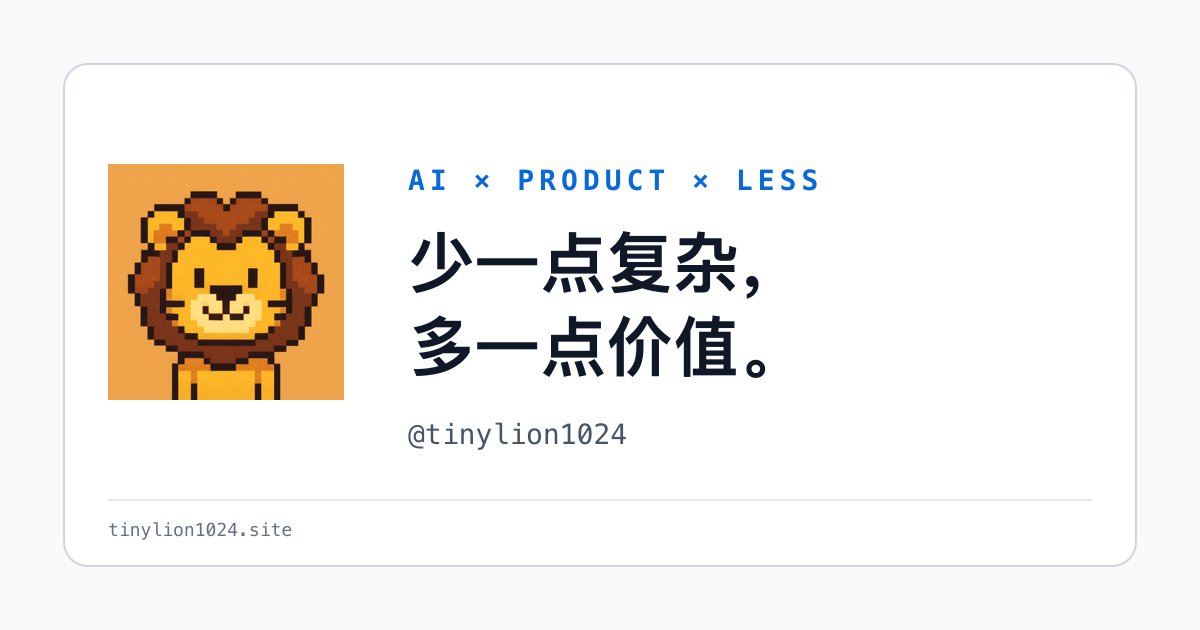
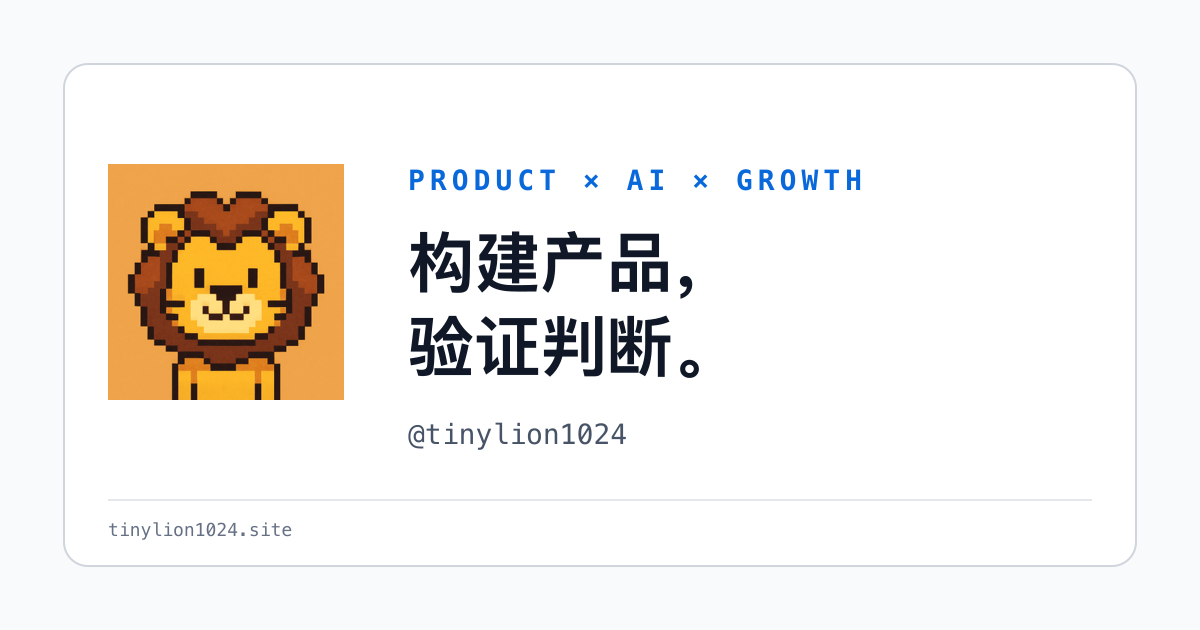
Let the design express restraint

Changed region(s): [[0.3392, 0.3619, 0.6475, 0.6032], [0.3392, 0.2714, 0.555, 0.3016], [0.6167, 0.2714, 0.74, 0.3016]]

diff --git a/src/data/posts.en.ts b/src/data/posts.en.ts
@@ -46,8 +46,8 @@ export const postsEn: Post[] = [
     topic: "AI Building",
     featured: true,
     startHere: true,
-    series: "Minimal AI Workflows",
-    seriesSlug: "minimal-ai-workflows",
+    series: "AI Delivery Workflows",
+    seriesSlug: "ai-delivery-workflows",
     visuals: [{ src: "/articles/selective-powers-workflow.png", alt: "A contrast between a dense always-on workflow and a modular risk-based workflow", afterParagraph: 5, caption: "The goal is not less process. It is process whose weight matches the risk." }],
     body: [
       "I recently removed Superpowers from my default workflow. Not because it is bad—quite the opposite. It made a powerful point early in the AI coding era: agents are capable, but they are also impulsive. Without guardrails, they start before understanding the task and declare success before running anything.",
@@ -71,8 +71,8 @@ export const postsEn: Post[] = [
     topic: "AI Building",
     featured: true,
     startHere: true,
-    series: "Minimal AI Workflows",
-    seriesSlug: "minimal-ai-workflows",
+    series: "AI Delivery Workflows",
+    seriesSlug: "ai-delivery-workflows",
     visuals: [
       { src: "/articles/ai-coding-blast-radius.png", alt: "A comparison between small local changes and large cross-module changes", afterParagraph: 3, caption: "The clearer the blast radius, the easier it is to choose a safe execution mode." },
       { src: "/articles/ai-coding-context-interface.png", alt: "Documentation, source code, and verification acting as an interface for an agent", afterParagraph: 5, caption: "Project documentation is a reusable context interface, not an afterthought." },
@@ -99,8 +99,8 @@ export const postsEn: Post[] = [
     readTime: "7 min",
     topic: "AI Building",
     featured: true,
-    series: "Minimal AI Workflows",
-    seriesSlug: "minimal-ai-workflows",
+    series: "AI Delivery Workflows",
+    seriesSlug: "ai-delivery-workflows",
     sources: [
       { label: "tmux Getting Started: sessions, windows, panes, detach and reattach", href: "https://github.com/tmux/tmux/wiki/Getting-Started" },
       { label: "Zellij documentation: layouts", href: "https://zellij.dev/documentation/layouts.html" },
@@ -131,8 +131,8 @@ export const postsEn: Post[] = [
     readTime: "6 min",
     topic: "AI Building",
     featured: true,
-    series: "Minimal Toolset",
-    seriesSlug: "minimal-toolset",
+    series: "Tool Decisions",
+    seriesSlug: "tool-decisions",
     sources: [
       { label: "Warp documentation: terminal and agent modes, with third-party CLI agents", href: "https://docs.warp.dev/" },
       { label: "Warp agent context: images, URLs, files, and code blocks", href: "https://docs.warp.dev/agent-platform/local-agents/overview" },

diff --git a/src/data/posts.ts b/src/data/posts.ts
@@ -70,8 +70,8 @@ export const posts: Post[] = [
     topic: "AI 构建",
     featured: true,
     startHere: true,
-    series: "极简 AI 工作流",
-    seriesSlug: "minimal-ai-workflows",
+    series: "AI 交付工作流",
+    seriesSlug: "ai-delivery-workflows",
     visuals: [
       {
         src: "/articles/selective-powers-workflow.png",
@@ -109,8 +109,8 @@ export const posts: Post[] = [
     topic: "AI 构建",
     featured: true,
     startHere: true,
-    series: "极简 AI 工作流",
-    seriesSlug: "minimal-ai-workflows",
+    series: "AI 交付工作流",
+    seriesSlug: "ai-delivery-workflows",
     visuals: [
       {
         src: "/articles/ai-coding-blast-radius.png",
@@ -157,8 +157,8 @@ export const posts: Post[] = [
     readTime: "8 min",
     topic: "AI 构建",
     featured: true,
-    series: "极简 AI 工作流",
-    seriesSlug: "minimal-ai-workflows",
+    series: "AI 交付工作流",
+    seriesSlug: "ai-delivery-workflows",
     sources: [
       { label: "tmux 官方 Getting Started：会话、窗口、窗格与断开重连", href: "https://github.com/tmux/tmux/wiki/Getting-Started" },
       { label: "Zellij 官方文档：Layouts", href: "https://zellij.dev/documentation/layouts.html" },
@@ -188,8 +188,8 @@ export const posts: Post[] = [
     readTime: "7 min",
     topic: "AI 构建",
     featured: true,
-    series: "极简工具箱",
-    seriesSlug: "minimal-toolset",
+    series: "工具选择",
+    seriesSlug: "tool-decisions",
     sources: [
       { label: "Warp 官方文档：终端与 Agent 模式、第三方 CLI Agent 支持", href: "https://docs.warp.dev/" },
       { label: "Warp 官方文档：Agent Context 可附加图片、URL、文件与代码", href: "https://docs.warp.dev/agent-platform/local-agents/overview" },

diff --git a/src/pages/en/rss.xml.ts b/src/pages/en/rss.xml.ts
@@ -31,7 +31,7 @@ export const GET: APIRoute = ({ site }) => {
   <channel>
     <title>tinylion1024 — English</title>
     <link>${new URL("/en/", origin).href}</link>
-    <description>Minimal AI product practice: build with AI, validate judgment through real growth.</description>
+    <description>Product judgment, AI delivery, and growth validation tested through real products.</description>
     <language>en</language>
     <atom:link href="${feedUrl.href}" rel="self" type="application/rss+xml" />
     ${items}

diff --git a/src/pages/rss.xml.ts b/src/pages/rss.xml.ts
@@ -31,7 +31,7 @@ export const GET: APIRoute = ({ site }) => {
   <channel>
     <title>tinylion1024</title>
     <link>${origin.href}</link>
-    <description>AI 时代的极简产品实践：用 AI 构建产品，用真实增长验证判断。</description>
+    <description>关于产品判断、AI 构建与增长验证的双语个人网站。</description>
     <language>zh-CN</language>
     <atom:link href="${feedUrl.href}" rel="self" type="application/rss+xml" />
     ${items}

diff --git a/docs/content-strategy.md b/docs/content-strategy.md
@@ -2,11 +2,11 @@
 
 ## Positioning
 
-tinylion1024 is a minimalist AI product builder.
+tinylion1024 works across product judgment, AI delivery, and growth validation.
 
 The working sentence is:
 
-> Build products with AI, validate judgment through real growth, and remove low-value complexity.
+> Turn product judgment into real delivery, then test it through real use and growth.
 
 Every page and article should strengthen at least one part of that sentence. The site is not a broad technology-news feed, a tool-review directory, or a personal résumé.
 
@@ -35,7 +35,7 @@ These are the ideas the archive should keep testing, refining, or challenging:
 1. A product is a set of validated trade-offs, not a feature list.
 2. Models are infrastructure; the delivery system determines whether AI creates value.
 3. Growth is the result of value being repeatedly used and shared, not a traffic trick.
-4. Minimalism is the practice of removing low-value complexity, not a visual style.
+4. Tools and process should serve delivery rather than become the story.
 5. Process should scale with risk. Small reversible work should stay light.
 
 ## Publishing cadence

diff --git a/README.md b/README.md
@@ -1,6 +1,6 @@
 # tinylion1024.site
 
-A bilingual personal site about minimalist AI product practice: build with AI, validate judgment through real growth, and remove low-value complexity.
+A bilingual personal site about product judgment, AI delivery, and growth validation.
 
 Live site: [tinylion1024.site](https://tinylion1024.site/)
 
